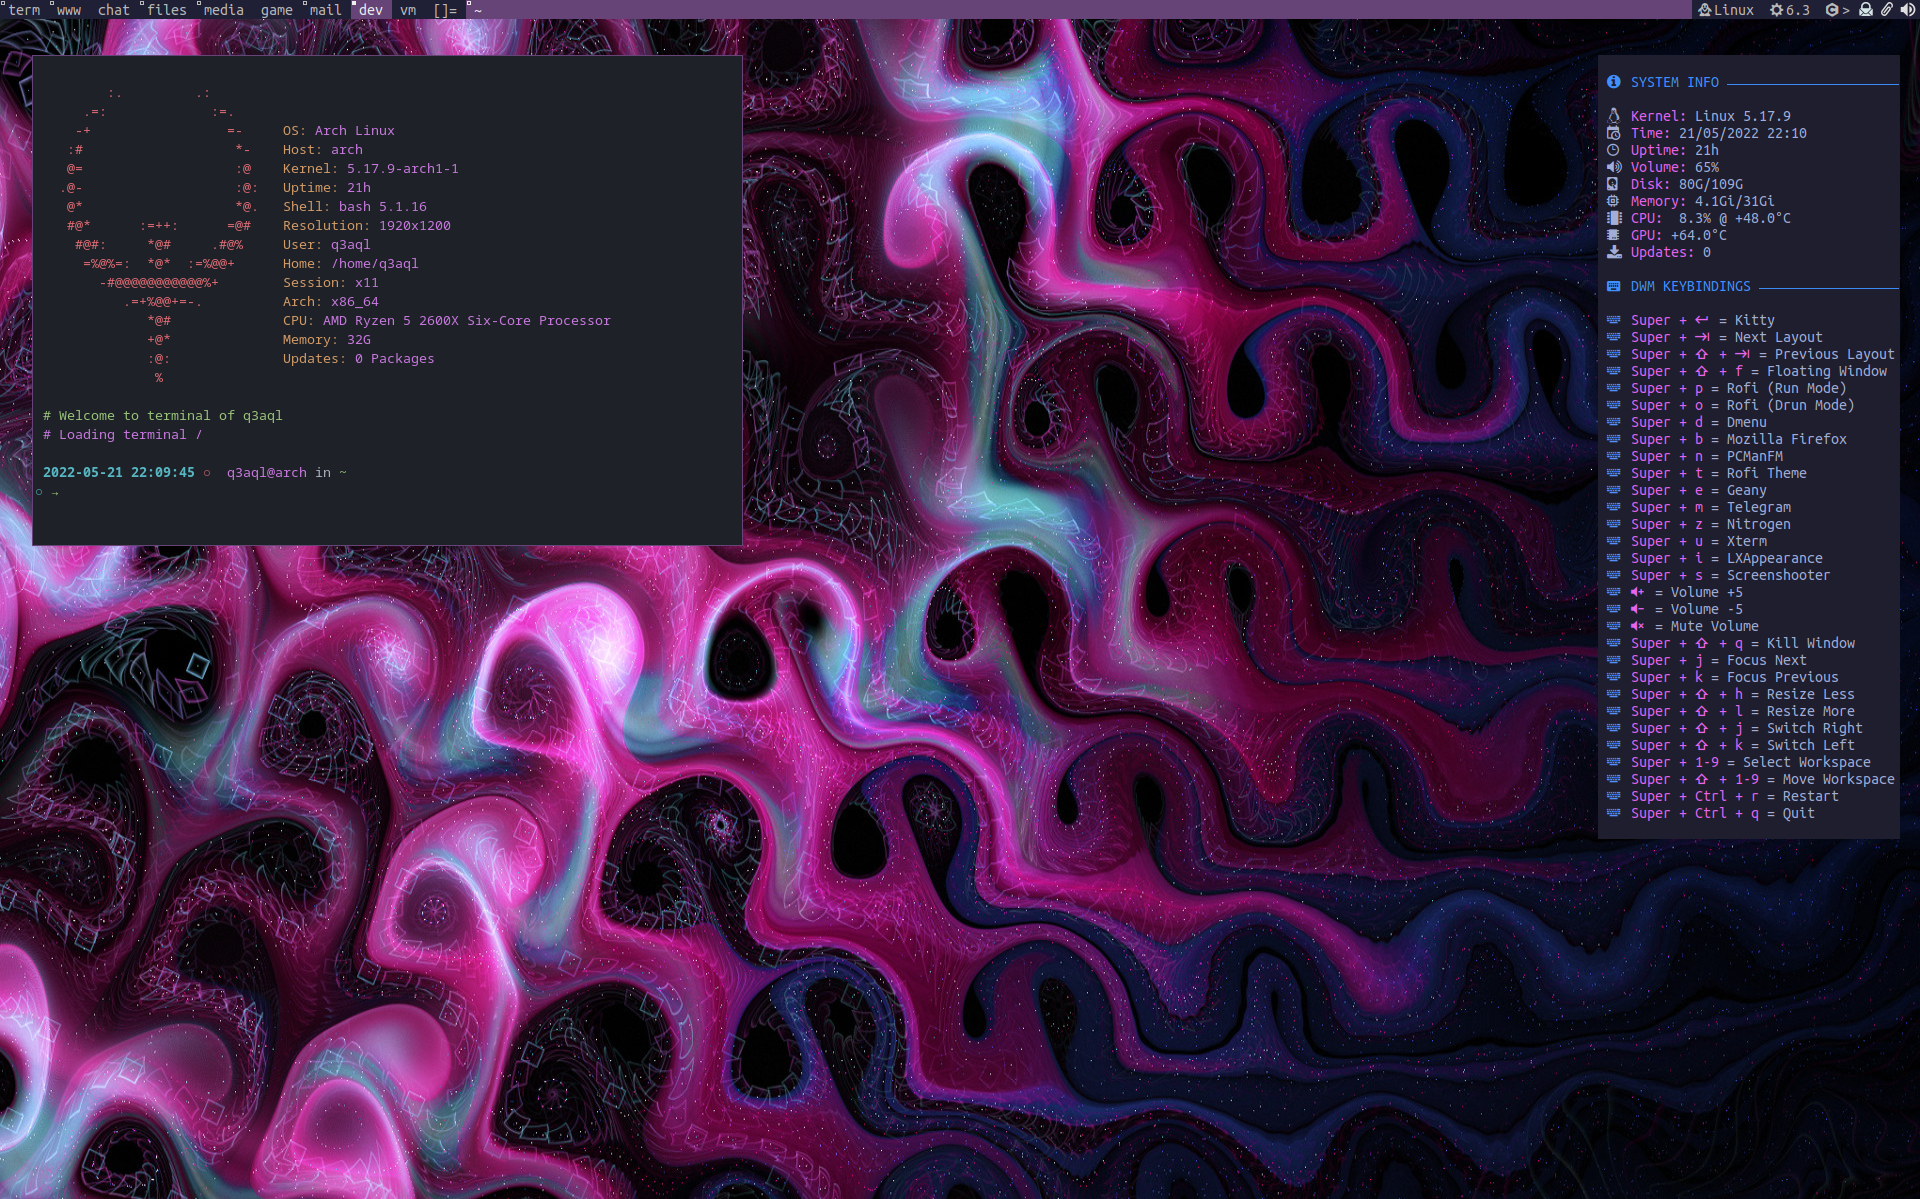
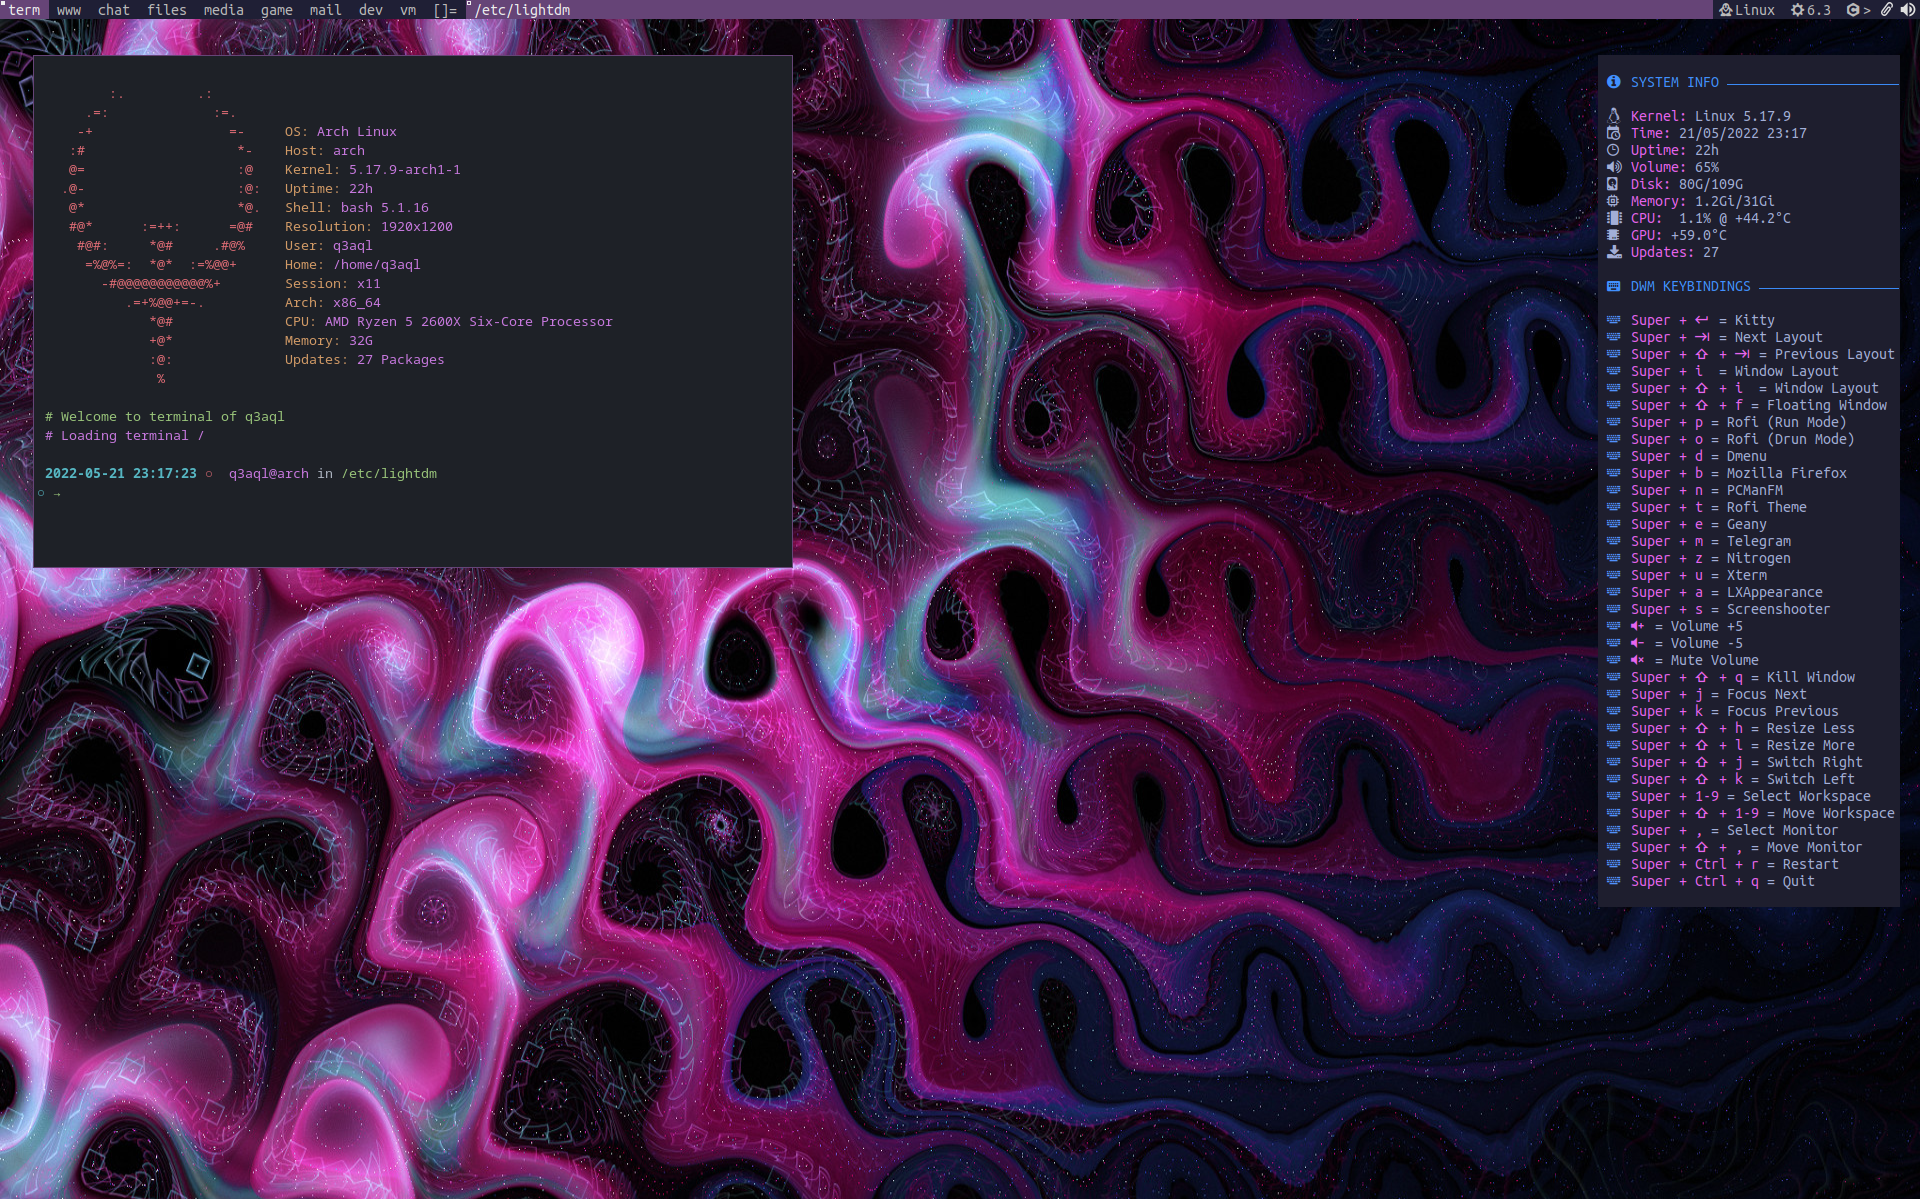
Dotfiles config update (2022-05-21)

diff --git a/.config/dwm/config.def.h b/.config/dwm/config.def.h
@@ -38,9 +38,9 @@ static const Rule rules[] = {
 	 *	WM_NAME(STRING) = title
 	 */
 	/* class      instance    title       tags mask     isfloating   monitor */
-  { "mpv",     NULL,       NULL,       0,            1,           -1 },
-  { "Ristrettoy",     NULL,       NULL,       0,            1,           -1 },
-  { "VLC",     NULL,       NULL,       0,            1,           -1 },
+  { "mpv",          NULL,       NULL,       0,            1,           -1 },
+  { "Ristrettoy",   NULL,       NULL,       0,            1,           -1 },
+  { "VLC",          NULL,       NULL,       0,            1,           -1 },
 	//{ "Firefox",  NULL,       NULL,       1 << 8,       0,           -1 },
 };
 
@@ -96,8 +96,8 @@ static Key keys[] = {
     { MODKEY|ShiftMask, XK_b, togglebar, {0} },
 
     // Move windows in current stack
-	  { MODKEY, XK_j, focusstack, {.i = +1 } },
-	  { MODKEY, XK_k, focusstack, {.i = -1 } },
+    { MODKEY, XK_j, focusstack, {.i = +1 } },
+    { MODKEY, XK_k, focusstack, {.i = -1 } },
 
     // Cycle layouts
     { MODKEY, XK_Tab, cyclelayout, {.i = +1 } },
@@ -152,7 +152,7 @@ static Key keys[] = {
     { MODKEY, XK_z, spawn, SHCMD("nitrogen") },
     { MODKEY, XK_u, spawn, SHCMD("xterm") },
     { MODKEY, XK_t, spawn, SHCMD("rofi-theme-selector") },
-    { MODKEY, XK_i, spawn, SHCMD("lxappearance") },
+    { MODKEY, XK_a, spawn, SHCMD("lxappearance") },
 
     // Screenshot
     { MODKEY, XK_s, spawn, SHCMD("xfce4-screenshooter") },

diff --git a/.config/dwm/config.h b/.config/dwm/config.h
@@ -38,9 +38,9 @@ static const Rule rules[] = {
 	 *	WM_NAME(STRING) = title
 	 */
 	/* class      instance    title       tags mask     isfloating   monitor */
-  { "mpv",     NULL,       NULL,       0,            1,           -1 },
-  { "Ristrettoy",     NULL,       NULL,       0,            1,           -1 },
-  { "VLC",     NULL,       NULL,       0,            1,           -1 },
+  { "mpv",          NULL,       NULL,       0,            1,           -1 },
+  { "Ristrettoy",   NULL,       NULL,       0,            1,           -1 },
+  { "VLC",          NULL,       NULL,       0,            1,           -1 },
 	//{ "Firefox",  NULL,       NULL,       1 << 8,       0,           -1 },
 };
 
@@ -96,8 +96,8 @@ static Key keys[] = {
     { MODKEY|ShiftMask, XK_b, togglebar, {0} },
 
     // Move windows in current stack
-	  { MODKEY, XK_j, focusstack, {.i = +1 } },
-	  { MODKEY, XK_k, focusstack, {.i = -1 } },
+    { MODKEY, XK_j, focusstack, {.i = +1 } },
+    { MODKEY, XK_k, focusstack, {.i = -1 } },
 
     // Cycle layouts
     { MODKEY, XK_Tab, cyclelayout, {.i = +1 } },
@@ -152,7 +152,7 @@ static Key keys[] = {
     { MODKEY, XK_z, spawn, SHCMD("nitrogen") },
     { MODKEY, XK_u, spawn, SHCMD("xterm") },
     { MODKEY, XK_t, spawn, SHCMD("rofi-theme-selector") },
-    { MODKEY, XK_i, spawn, SHCMD("lxappearance") },
+    { MODKEY, XK_a, spawn, SHCMD("lxappearance") },
 
     // Screenshot
     { MODKEY, XK_s, spawn, SHCMD("xfce4-screenshooter") },

diff --git a/README-dwm.md b/README-dwm.md
@@ -89,6 +89,8 @@ My list of extra combinations:
     - Super + Tab = Next Layout
     - Super + Shift + Tab = Previous Layout
     - Super + Shift + f = Floating Window
+    - Super + i = Next Window Layout
+    - Super + Shift + i = Previous Window Layout
     - Super + p = Open Rofi (run mode)
     - Super + q = Open Rofi (window mode)
     - Super + o = Open Rofi (drun mode)
@@ -100,7 +102,7 @@ My list of extra combinations:
     - Super + z = Open Nitrogen 
     - Super + x = Open LXRandr
     - Super + u = Open Xterm
-    - Super + i = Open LXAppearance
+    - Super + a = Open LXAppearance
     - Super + s = Open Screenshooter
     - Volume-Up = Volume +5
     - Volume-Down = Volume -5
